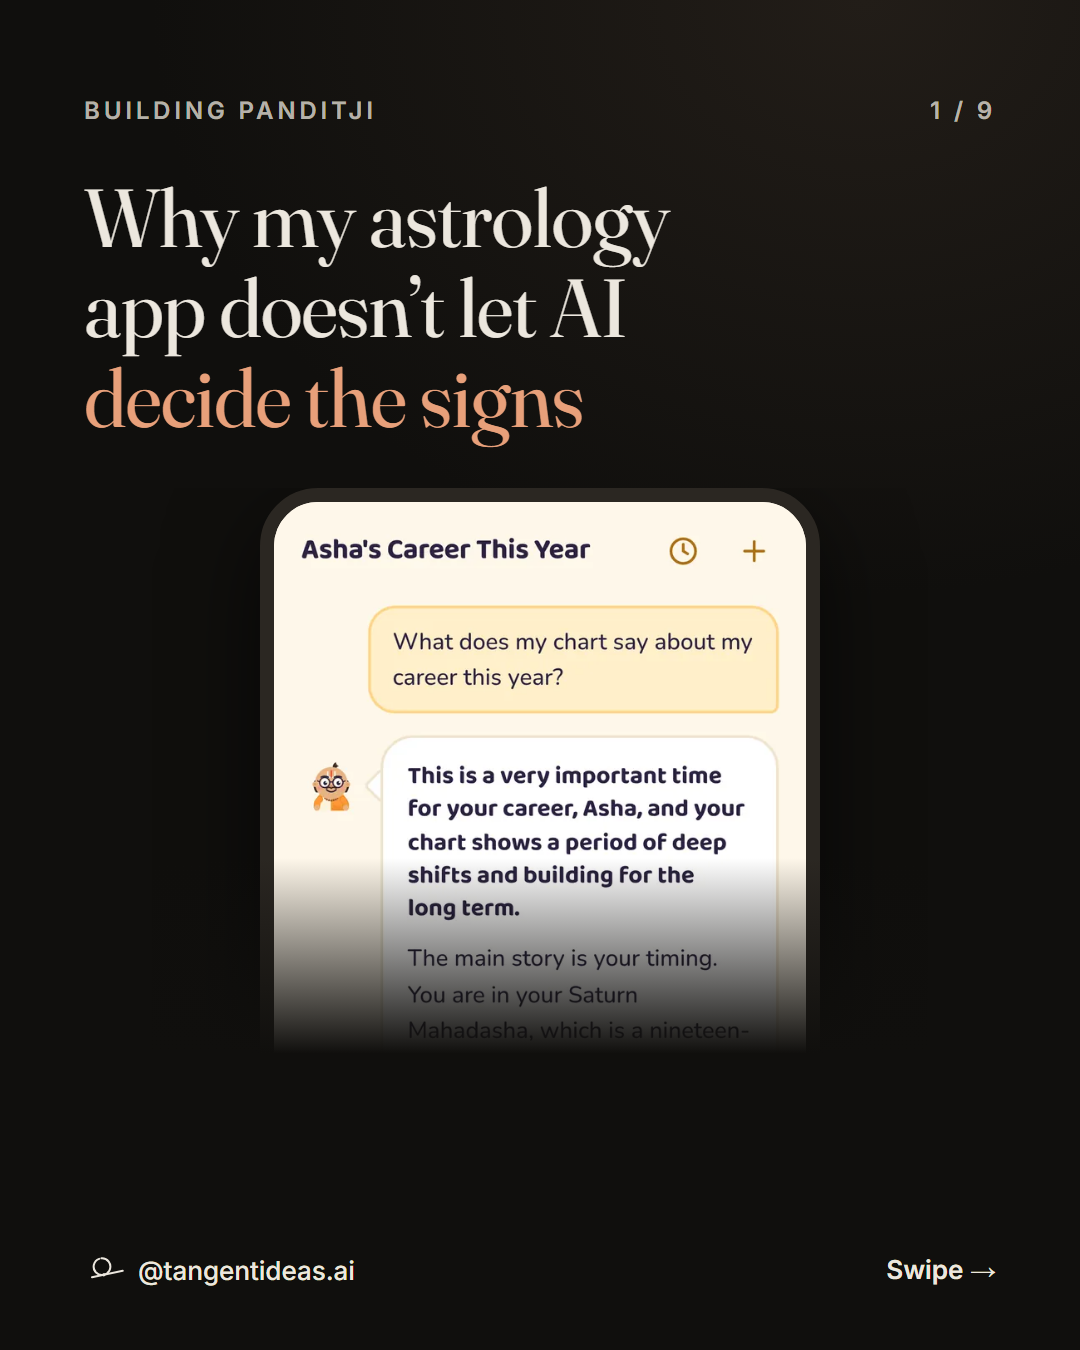
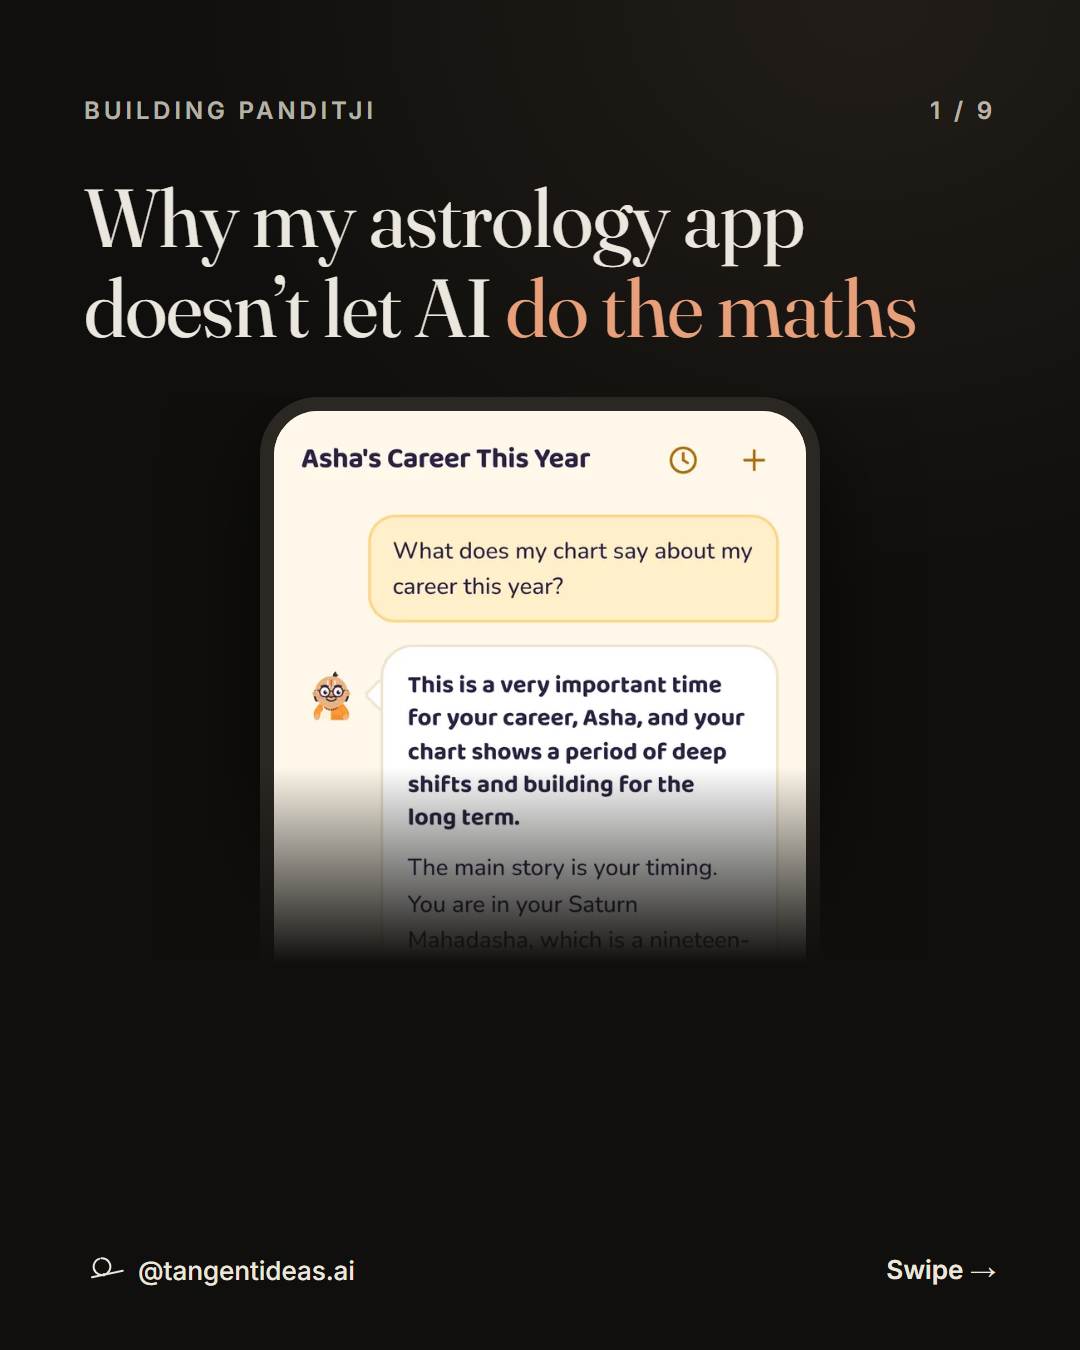
Panditji v4: restore the approved 'do the maths' cover

Changed region(s): [[0.0611, 0.1556, 0.8556, 0.7778]]

diff --git a/productions/2026-11-panditji-article-carousel-v2/slides-v4/html/slide-01.html b/productions/2026-11-panditji-article-carousel-v2/slides-v4/html/slide-01.html
@@ -21,5 +21,5 @@ h1{text-wrap:balance}.viz{flex:none;height:600px;align-items:flex-start;overflow
 .viz:after{content:"";position:absolute;left:0;right:0;bottom:0;height:230px;
   background:linear-gradient(rgba(16,15,13,0),#100f0d 85%)}</style></head><body>
 <div class="slide"><div class="top"><span>Building Panditji</span><span>1 / 9</span></div>
-<h1>Why my astrology app doesn&rsquo;t let AI <em>decide the signs</em></h1><div class="viz"><div class="phone"><img src="../../assets/ask-top.webp"></div></div>
+<h1>Why my astrology app doesn&rsquo;t let AI <em>do the maths</em></h1><div class="viz"><div class="phone"><img src="../../assets/ask-top.webp"></div></div>
 <div class="foot"><span class="me"><svg viewBox="0 0 120 120" fill="none" width="40" height="40"><path d="M 52.26 25.06 A 25 25 0 1 1 45.45 26.5" stroke="currentColor" stroke-width="6" stroke-linecap="round"/><line x1="24" y1="82" x2="116.2" y2="62.4" stroke="currentColor" stroke-width="6" stroke-linecap="round"/><circle cx="59.2" cy="74.5" r="4.854" fill="currentColor"/></svg><span>@tangentideas.ai</span></span><span style="font:600 26px Inter">Swipe &rarr;</span></div></div></body></html>

diff --git a/productions/2026-11-panditji-article-carousel-v2/build_v4.py b/productions/2026-11-panditji-article-carousel-v2/build_v4.py
@@ -27,7 +27,7 @@ SMALL_H1 = "h1{font-size:68px}"
 S = []
 
 # 1 cover
-S.append(page(1, "Why my astrology app doesn&rsquo;t let AI <em>decide the signs</em>",
+S.append(page(1, "Why my astrology app doesn&rsquo;t let AI <em>do the maths</em>",
     '<div class="phone"><img src="../assets/ask-top.webp"></div>',
     f""".viz{{flex:none;height:600px;align-items:flex-start;overflow:hidden;margin:44px -84px auto;position:relative}}
 .phone{{width:560px;height:1180px;border-radius:58px;border:14px solid #2b2722;background:#fff8ec;

diff --git a/productions/2026-11-panditji-article-carousel-v2/carousel-v4.md b/productions/2026-11-panditji-article-carousel-v2/carousel-v4.md
@@ -4,13 +4,13 @@ Message Brief: `message-brief-v4.md`. One beat sentence per slide. The chat answ
 and 3 are illustrative mock-ups (Sparsh's call). The signs shown are the real 2026 values from
 Panditji's engine (`saturn_check_output.txt`).
 
-**One-line message:** My astrology app doesn't let AI mix up Vedic and Western astrology.
+**One-line message:** My astrology app doesn't let AI do the maths.
 **Audience:** A · **Kind of post:** a short build story · **Tone:** person-direct
 
 ## Slides
 
 ### Slide 1
-H: Why my astrology app doesn't let AI decide the signs
+H: Why my astrology app doesn't let AI do the maths
 V: Panditji's answer screen on a phone
 
 ### Slide 2
@@ -48,7 +48,7 @@ B: Instagram @tangentideas.ai · YouTube @tangentideasai · Medium @tangentideas
 V: Channels, one per row
 
 ## Caption
-Why my astrology app doesn't let AI decide the signs.
+Why my astrology app doesn't let AI do the maths.
 
 Right now, Saturn is in Pisces in Vedic astrology and in Aries in Western astrology. Both are correct: the two zodiacs sit about 24 degrees apart. AI chatbots learned from pages that mix them up, so they can give you either answer.
 
